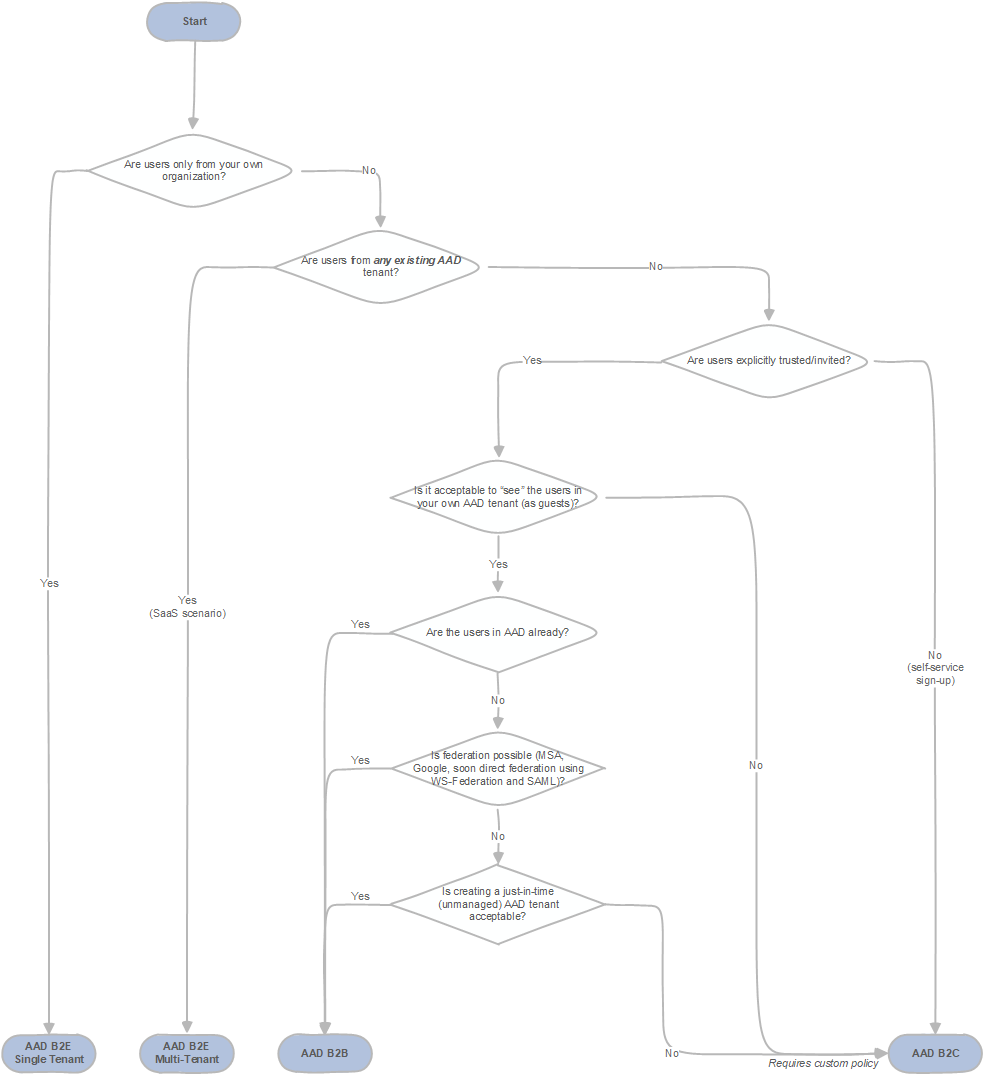
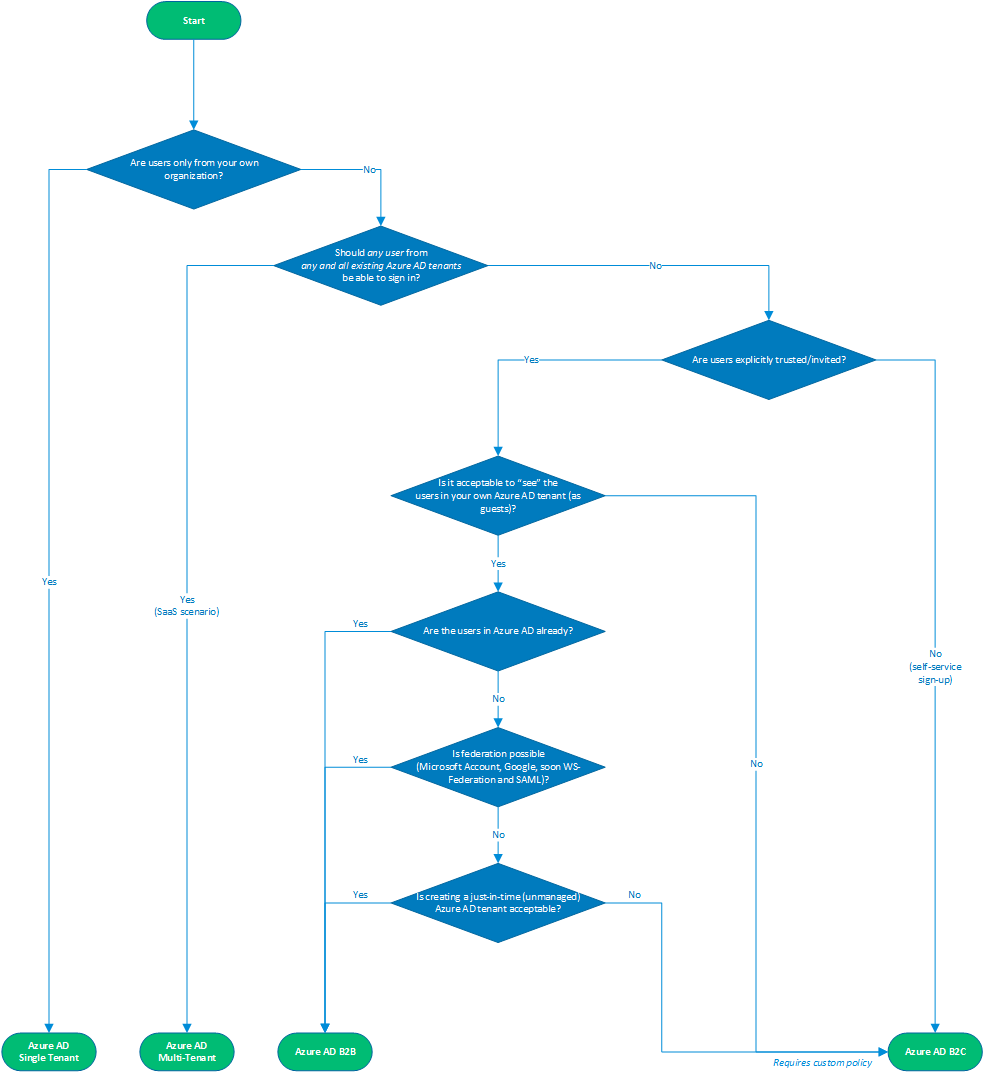
Incorporating review comments

diff --git a/identity-applications/aad-external-identities-decision-tree.md b/identity-applications/aad-external-identities-decision-tree.md
@@ -2,15 +2,15 @@
 
 ## Introduction
 
-There are a number of flavors of Azure Active Directory (Azure AD or AAD) that allow you to work with "external identities", i.e. users that are outside of your own organization:
+There are a number of flavors of Azure Active Directory (Azure AD) that allow you to work with "external identities", i.e. users that are outside of your own organization:
 
 - [Azure AD](https://docs.microsoft.com/en-us/azure/active-directory/) (sometimes also referred to as Azure AD B2E - Business to Enterprise)
-  - When writing applications for Azure AD B2E, you can target users from a single organization (single tenant), or users from any organization that already has an Azure AD tenant (called [multi-tenant applications](https://docs.microsoft.com/en-us/azure/active-directory/develop/howto-convert-app-to-be-multi-tenant)).
+  - When writing applications for Azure AD, you can target users from a single organization (single tenant), or users from any organization that already has an Azure AD tenant (called [multi-tenant applications](https://docs.microsoft.com/en-us/azure/active-directory/develop/howto-convert-app-to-be-multi-tenant)).
 - [Azure AD B2B](https://docs.microsoft.com/en-us/azure/active-directory/b2b/) (Business to Business)
-  - This is mainly targeted at collaboration scenarios using Microsoft applications (e.g. Office 365, Microsoft Teams, PowerBI, ...).
-  - In B2B scenarios, you invite external users into your own tenant as "guest" users that you can then assign permissions to (for _authorization_) while allowing them to keep using their existing credentials (for _authentication_) inside their own organization.
+  - This isn't so much a different directory service, it's an extension on top of Azure AD that allows you to work with external identities, mainly for collaboration scenarios using Microsoft applications (e.g. Office 365, Microsoft Teams, PowerBI, ...).
+  - In Azure AD B2B, you invite external users into your own tenant as "guest" users that you can then assign permissions to (for _authorization_) while still allowing them to keep using their existing credentials (for _authentication_) inside their own organization.
 - [Azure AD B2C](https://docs.microsoft.com/en-us/azure/active-directory-b2c/) (Business to Consumer, Customer or even Citizen)
-  - This enables you to customize and control how customers sign up, sign in, and manage their profiles when using your applications.
+  - This is a separate directory service (but still built on top of the global Azure AD infrastructure) which enables you to customize and control how customers sign up, sign in, and manage their profiles when using your applications.
 
 In order to choose the right Azure AD flavor for your project, there are a number of decision factors that come into play. This document provides a decision tree and guidance to help you make the right choice.
 
@@ -27,7 +27,7 @@ Here are some additional considerations for a few of these decision points:
 - _"Is it acceptable to 'see' the users in your own Azure AD tenant (as guests)?"_
   - This is an important decision factor to check if Azure AD B2B is suitable for your scenario because B2B users are represented as [guest users](https://docs.microsoft.com/en-us/azure/active-directory/b2b/user-properties) _inside your own Azure AD tenant_.
   - This has implications around trust and security, e.g. guest users can be browsed in your directory and granted permissions to your resources (e.g. SharePoint documents, Outlook calendars, PowerBI dashboards, even your Azure subscriptions).
-  - Guest users are also typically able to see all users in _your_ directory (which they are now a guest of).
+  - Guest users are also able to get information about users in _your_ directory (which they are now a guest of), and depending on the [permissions you've granted these guest users](https://docs.microsoft.com/en-us/azure/active-directory/fundamentals/users-default-permissions) they can also browse users and groups, see application definitions and more.
   - This may be exactly what you want in a situation where you trust these users to collaborate with your organization (e.g. business partners or vendors); it may also be something you explicitly want to avoid (e.g. to prevent someone from inadvertently or maliciously granting these guest users permissions to corporate resources or your Azure subscriptions).
   - Think of it this way: _would you invite these users into your physical office building?_ If so, then B2B guest user access may be a great choice.
 - _"Is creating a just-in-time (unmanaged) Azure AD tenant acceptable?"_
@@ -38,7 +38,7 @@ Here are some additional considerations for a few of these decision points:
 
 ### Line-Of-Business (LOB) App
 
-Imagine you are building a Line-Of-Business application to track expenses for the employees of your organization. As the intended audience is _all users of your own organization_, **Azure AD B2E with a single tenant** (i.e. yours) is likely the best choice.
+Imagine you are building a Line-Of-Business application to track expenses for the employees of your organization. As the intended audience is _all users of your own organization_, **Azure AD with a single tenant** (i.e. yours) is likely the best choice.
 
 ### Collaboration App
 
@@ -52,7 +52,7 @@ Now imagine you are building a platform for tracking expenses that _other_ organ
 
 You now have a choice to make:
 
-- You can define your target audience as _all organizations that have Azure AD_ today (i.e. have a total addressable market of over a billion users across millions of organizations). In this case you can easily create an **Azure AD B2E multi-tenant application** and join the [marketplace with thousands of other SaaS vendors](https://azuremarketplace.microsoft.com/en-us/marketplace/apps/category/azure-active-directory-apps).
+- You can define your target audience as _all organizations that have Azure AD_ today (i.e. have a total addressable market of over a billion users across millions of organizations). In this case you can easily create an **Azure AD multi-tenant application** and join the [marketplace with thousands of other SaaS vendors](https://azuremarketplace.microsoft.com/en-us/marketplace/apps/category/azure-active-directory-apps).
 - You can also choose to target any user or organization that does not necessarily have an Azure AD tenant. In that case, it depends on your business model if you want to allow anyone to sign up freely and try out your service, or if you want to restrict your users to only explicitly invited people. In both cases, you probably don't want to see these users as guests in your own Azure AD tenant. **Azure AD B2C** is well suited to handle this scenario, possibly with custom policies to restrict who can sign up for an account.
 - Finally as a combination of both previous methods, you can also use **Azure AD B2C** and configure it to [allow user sign-in for multi-tenant Azure AD tenants](https://docs.microsoft.com/en-us/azure/active-directory-b2c/active-directory-b2c-setup-commonaad-custom) - with or without the traditional support for self-service sign up and social identity providers.
 
@@ -70,16 +70,16 @@ Azure AD B2C provides a lot of additional flexibility when it comes to [federati
 
 The table below details which features are available in the different flavors of Azure AD (or which nuances there are between them), which can help the decision making.
 
-| Feature | AAD BE2 Single Tenant | AAD B2E Multi-Tenant | AAD B2B | AAD B2C |
+| Feature | Azure AD Single Tenant | Azure AD Multi-Tenant | Azure AD B2B | Azure AD B2C |
 | ----------- | --------------------- | -------------------- | ------- | ------- |
 | Is primarily intended for Line-Of-Business (LOB) applications | Yes | No | No | No |
 | Is primarily intended for Software-as-a-Service (SaaS) applications | No | Yes | No | No |
 | Is primarily intended for collaboration using Microsoft applications (O365, Teams, ...) | No | No | Yes | No |
 | Is primarily intended for transactional services using custom developed applications | No | No | No | Yes |
-| Supports AAD B2E users (from a single tenant) | Yes | Yes | Yes | Yes [1] |
-| Supports AAD B2E users (from multiple tenants) | No | Yes [2] | Yes [3] | Yes [4] |
-| Supports federation to business partners in existing AAD tenants | No | Yes | Yes | Yes |
-| Supports federation to (potentially many) business partners in non-existing AAD tenants (creating an ad-hoc "viral" tenant) | No | No [5] | Yes [6] | No [5] |
+| Supports Azure AD users (from a single tenant) | Yes | Yes | Yes | Yes [1] |
+| Supports Azure AD users (from multiple tenants) | No | Yes [2] | Yes [3] | Yes [4] |
+| Supports federation to business partners in existing Azure AD tenants | No | Yes | Yes | Yes |
+| Supports federation to (potentially many) business partners in non-existing Azure AD tenants (creating an ad-hoc "viral" tenant) | No | No [5] | Yes [6] | No [5] |
 | Supports federation to Microsoft Accounts | No | No | Yes | Yes |
 | Supports federation to Google Accounts | No | No | Yes [7] | Yes |
 | Supports federation to any SAML or WS-Federation Identity Provider | No | No | Yes [8] | Yes [9] |
@@ -88,7 +88,7 @@ The table below details which features are available in the different flavors of
 | Can *easily* handle delegated user management, where the external organization can manage their users that should have access to your application | No | Yes [11] | Yes [12] | No [13] |
 
 Notes:
-- [1]: [Set up the Azure AD B2E tenant as an Identity Provider using OpenID Connect](https://docs.microsoft.com/en-us/azure/active-directory-b2c/active-directory-b2c-setup-oidc-azure-active-directory).
+- [1]: [Set up the Azure AD tenant as an Identity Provider using OpenID Connect](https://docs.microsoft.com/en-us/azure/active-directory-b2c/active-directory-b2c-setup-oidc-azure-active-directory).
 - [2]: Develop your application using [the "common" endpoint](https://docs.microsoft.com/en-us/azure/active-directory/develop/howto-convert-app-to-be-multi-tenant#update-your-code-to-send-requests-to-common).
 - [3]: [Invite them as B2B guest users](https://docs.microsoft.com/en-us/azure/active-directory/b2b/add-users-administrator).
 - [4]: [Set up the other tenants as Identity Provider using OpenID Connect](https://docs.microsoft.com/en-us/azure/active-directory-b2c/active-directory-b2c-setup-oidc-azure-active-directory); optionally allow users from _any_ tenant using [the "common" endpoint](https://docs.microsoft.com/en-us/azure/active-directory/develop/howto-convert-app-to-be-multi-tenant#update-your-code-to-send-requests-to-common).
